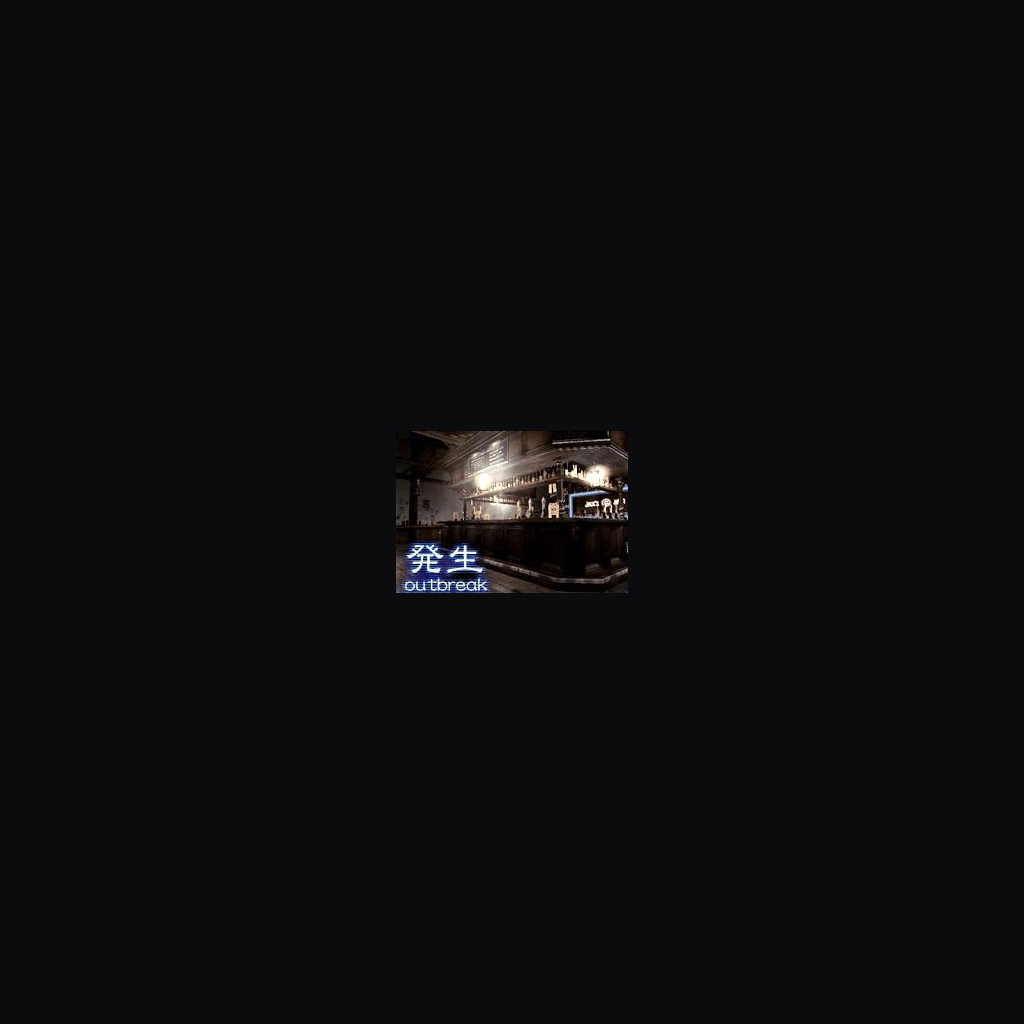
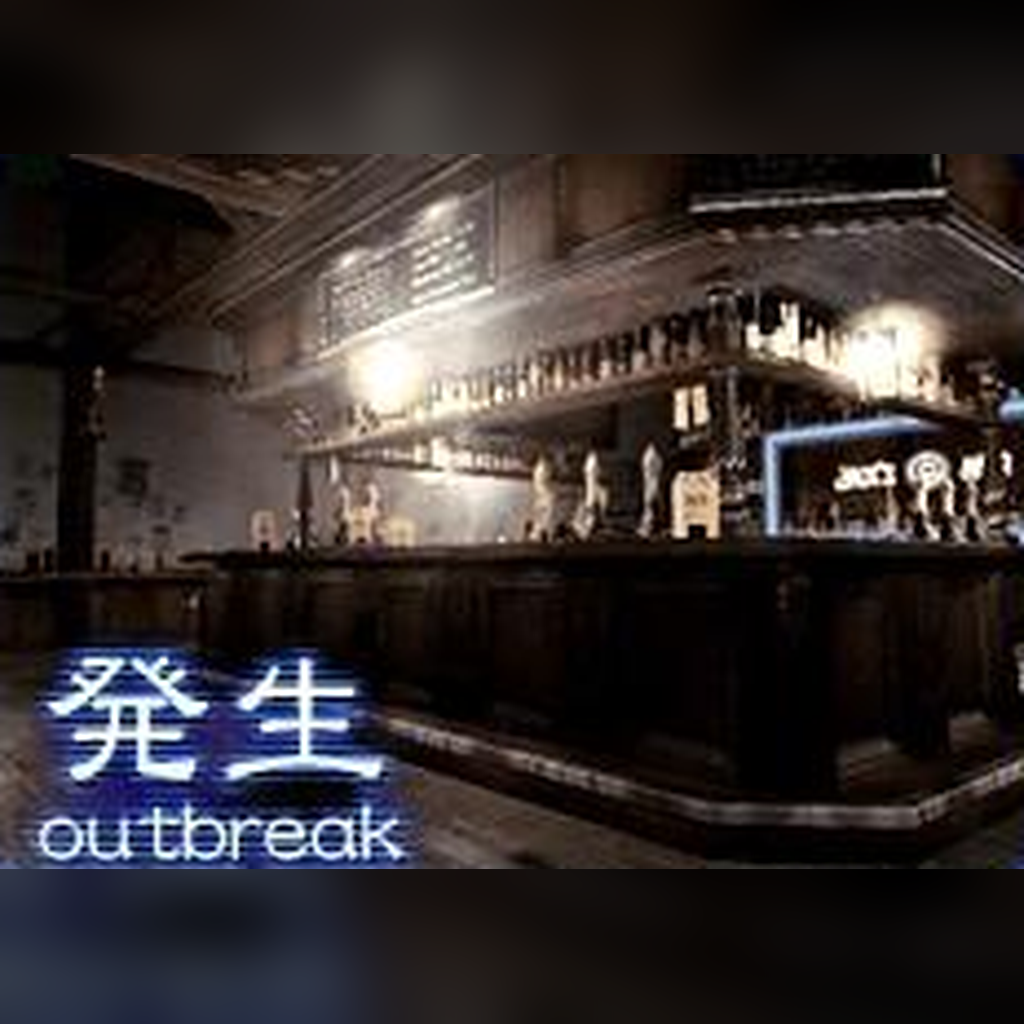
Detect stage from game scenario ID, full-size stage art, keep presence when unfocused
- page-bridge.js (MAIN world) reads the site's trkRead() for scenario and room
  numbers, so detection works even with the tracker hidden
- Companion maps scenario IDs to stages (File #1 28 = The Hive) and logs scen/room
- Content script also reads the in-game tracker overlay, not only the side panel
- Presence no longer clears when Chrome loses focus
- Importer scales screenshots up to fill 1024px with a blurred backdrop;
  presence uses the new <stage>_hd asset keys (assets/discord_upload_hd/)
- Extension 4.2.0

diff --git a/extension/content.js b/extension/content.js
@@ -1,5 +1,12 @@
 // Read-only DOM tracker and lobby inspection. Never touches game memory or network.
 const ROOM_RE = /Area\s*(\d+)\s*·\s*([^·]+)\s*·\s*(\d+\s*\/\s*\d+)\s*players\s*·\s*(Public|Private)/i;
+// Latest numbers from page-bridge.js (scenario id, room id) — the site's own tracker state.
+let gameState = null;
+window.addEventListener('message', e => {
+ if (e.source !== window || e.data?.source !== 'outbreak-discord-bridge') return;
+ const d = e.data;
+ gameState = d.state === 'game' ? {scen: Number.isInteger(d.scen) ? d.scen : null, room: Number.isInteger(d.room) ? d.room : null, diff: Number.isInteger(d.diff) ? d.diff : null, at: Date.now()} : null;
+});
 function snapshot() {
  const username = document.querySelector('#chat-info')?.textContent?.match(/writing as\s+([\w-]+)/i)?.[1] || document.querySelector('#name-hint')?.textContent?.match(/play as\s+([\w-]+)/i)?.[1] || '';
  const rooms = [...document.querySelectorAll('#rooms .room')].map(el=>{
@@ -7,8 +14,12 @@ function snapshot() {
    const m=metadata.match(ROOM_RE);
    return {name:el.querySelector('b')?.textContent.trim().slice(0,80)||'',status:el.querySelector('.tag')?.textContent.trim().slice(0,32)||'',area:m?.[1]||'',players:m?.[3]?.replace(/\s/g,'')||'',visibility:m?.[4]||'',usernames:[...el.querySelectorAll('.who-n')].map(x=>x.textContent.trim())};
  });
- const cards=[...document.querySelectorAll('#trk-panel .trk-card')];
- const tracker=cards.length ? {
+ // The site renders cards into the side panel and/or the in-game overlay; read whichever has them.
+ let cards=[...document.querySelectorAll('#trk-panel .trk-card')];
+ if(!cards.length)cards=[...document.querySelectorAll('#trk-ov .trk-card')];
+ const live=gameState&&Date.now()-gameState.at<10000?gameState:null;
+ const tracker=(cards.length||live) ? {
+  scen:live?.scen??null, roomId:live?.room??null,
   characters:cards.map(c=>{const node=c.querySelector('.trk-name');const name=[...node?.childNodes||[]].filter(n=>n.nodeType===Node.TEXT_NODE).map(n=>n.textContent).join('').trim();return {name:name.slice(0,32),location:c.querySelector('.trk-room')?.textContent.trim().slice(0,100)||'',health:c.querySelector('.trk-hp .trk-num')?.textContent.trim().slice(0,24)||'',virus:c.querySelector('.trk-vir')?.textContent.trim().slice(0,30)||''}}),
   difficulty:document.querySelector('#trk-panel .trk-foot .muted')?.textContent.trim().slice(0,24)||'',
   matchTime:document.querySelector('#trk-panel .trk-clock')?.textContent.trim().slice(0,30)||''

diff --git a/extension/page-bridge.js b/extension/page-bridge.js
@@ -1,0 +1,37 @@
+// Runs in the page's own JS world (manifest "world": "MAIN") so it can see the
+// site's tracker state, and forwards a few numbers to content.js.
+// The site only refreshes window.trkLastState while its tracker panel/overlay is
+// visible, so we call the site's own read-only trkRead() directly when possible.
+(() => {
+  const SOURCE = 'outbreak-discord-bridge';
+  const read = () => {
+    try {
+      // trkRead / TRK_GAMES / game are top-level bindings of the site's script.
+      // eslint-disable-next-line no-undef
+      if (typeof trkRead === 'function' && typeof TRK_GAMES === 'object' && typeof game === 'object' && window.Module?.running) {
+        // eslint-disable-next-line no-undef
+        const cfg = TRK_GAMES[game && game.serial];
+        // eslint-disable-next-line no-undef
+        if (cfg) return trkRead(cfg);
+      }
+    } catch (_) { /* fall back below */ }
+    return window.trkLastState;
+  };
+  setInterval(() => {
+    const s = read();
+    if (!s || s.state !== 'game') {
+      window.postMessage({source: SOURCE, state: s ? String(s.state) : 'none'}, location.origin);
+      return;
+    }
+    const players = Array.isArray(s.players) ? s.players : [];
+    const me = players.find(p => p && p.slot === s.me) || players.find(p => p && p.inGame) || players[0];
+    window.postMessage({
+      source: SOURCE,
+      state: 'game',
+      file: Number(s.file) || null,
+      scen: Number.isFinite(s.scen) ? s.scen : null,
+      diff: Number.isFinite(s.diff) ? s.diff : null,
+      room: me && Number.isFinite(me.room) ? me.room : null,
+    }, location.origin);
+  }, 2000);
+})();

diff --git a/extension/background.js b/extension/background.js
@@ -7,7 +7,12 @@ async function sync() {
   try {
     const {enabled=true, token='', username='', shareRoom=false} = await chrome.storage.local.get(['enabled','token','username','shareRoom']);
     const windows = await chrome.windows.getAll({populate:true});
-    const tab = windows.filter(w=>w.focused).flatMap(w=>w.tabs||[]).find(t=>t.active && TARGET.test(t.url||''));
+    // Keep presence while an Outbreak tab is open, even when Chrome isn't the focused app
+    // (e.g. while you're looking at Discord). Prefer the focused window's active tab, then any
+    // active Outbreak tab, then any Outbreak tab at all.
+    const isGame = t => TARGET.test(t.url||'');
+    const all = windows.flatMap(w=>(w.tabs||[]).map(t=>({t, focused:w.focused})));
+    const tab = (all.find(x=>x.focused && x.t.active && isGame(x.t)) || all.find(x=>x.t.active && isGame(x.t)) || all.find(x=>isGame(x.t)))?.t;
     const playing = Boolean(enabled && tab);
     const game = playing ? tab.url.match(TARGET)[1] : null;
     let room=null, tracker=null;

diff --git a/companion/server.py b/companion/server.py
@@ -68,7 +68,11 @@ class State:
                             location = chars[0].get('location','') if chars else ''
                             character = chars[0].get('name','') if chars else ''
                             # Confirmed mapping: File 2's Elephant Restaurant belongs to Wild Things.
-                            stage_key = identify(game, location)
+                            scen = (tracker or {}).get('scen')
+                            room_id = (tracker or {}).get('roomId')
+                            stage_key = identify(game, location, scen=scen)
+                            if not location and room_id is not None:
+                                location = f'Room {room_id}'
                             stage = STAGES.get(game, {}).get(stage_key)
                             details = f'{stage} · {character}' if stage and character else (f'Playing as {character}' if character else title)
                             state_text = location or 'Playing in Chrome'
@@ -77,7 +81,9 @@ class State:
                                 state_text = f'{room.get("status", "In room")} · {room.get("players", "?")} players'
                             payload = dict(details=details[:128], state=state_text[:128],start=started,
                                 buttons=[{'label':f'Play Outbreak {which}','url':GAME_URLS.get(game,GAME_URLS['file2'])}])
-                            image_key = stage_key if stage_key else ('outbreak_file1' if game=='file1' else 'outbreak_file2')
+                            # Stage art is uploaded as "<stage>_hd" (full-size versions; the
+                            # original keys held small images and Discord caches assets by key).
+                            image_key = f'{stage_key}_hd' if stage_key else ('outbreak_file1' if game=='file1' else 'outbreak_file2')
                             payload['large_image'] = image_key
                             payload['large_text'] = (stage or title)[:128]
                             if tracker and tracker.get('difficulty'):
@@ -85,7 +91,7 @@ class State:
                             # Optional override for users with a custom cover asset.
                             if self.image and not stage: payload['large_image'] = self.image
                             self.rpc.update(**payload)
-                            print(f"Presence active: {title} | {stage or location or 'unknown stage'}", flush=True)
+                            print(f"Presence active: {title} | {stage or 'unknown stage'} | scen={scen} room={room_id} location={location!r}", flush=True)
                         else:
                             self.rpc.clear()
                             print('Presence cleared', flush=True)
@@ -129,7 +135,8 @@ def make_handler(state):
                     if not isinstance(tracker, dict): raise ValueError("invalid tracker")
                     chars = tracker.get("characters", [])
                     if not isinstance(chars, list): raise ValueError("invalid characters")
-                    tracker = {"characters": [{k: str(c.get(k,""))[:100] for k in ("name","location","health","virus")} for c in chars[:4] if isinstance(c,dict)],"difficulty":str(tracker.get("difficulty",""))[:24],"matchTime":str(tracker.get("matchTime",""))[:30]}
+                    num = lambda v: v if type(v) is int and 0 <= v <= 0xFFFF else None
+                    tracker = {"characters": [{k: str(c.get(k,""))[:100] for k in ("name","location","health","virus")} for c in chars[:4] if isinstance(c,dict)],"difficulty":str(tracker.get("difficulty",""))[:24],"matchTime":str(tracker.get("matchTime",""))[:30],"scen":num(tracker.get("scen")),"roomId":num(tracker.get("roomId"))}
                 if room is not None:
                     if not isinstance(room, dict):
                         raise ValueError('invalid room')

diff --git a/import_real_stage_art.py b/import_real_stage_art.py
@@ -1,7 +1,7 @@
 #!/usr/bin/env python3
 """Import actual user-provided game screenshots into Discord asset files. No AI artwork."""
 from pathlib import Path
-from PIL import Image, ImageOps
+from PIL import Image, ImageOps, ImageFilter, ImageEnhance
 STAGES = ['outbreak', 'below_freezing_point', 'the_hive', 'hellfire', 'decisions_decisions', 'wild_things', 'underbelly', 'flashback', 'desperate_times', 'end_of_the_road']
 HERE=Path(__file__).resolve().parent
 SOURCE=HERE/'assets'/'real_stage_images'
@@ -18,10 +18,17 @@ def main():
         try:
             with Image.open(original) as image:
                 image=ImageOps.exif_transpose(image).convert('RGB')
-                # Discord artwork is best as square; pad without cropping gameplay.
-                image.thumbnail((1024,1024),Image.Resampling.LANCZOS)
-                square=Image.new('RGB',(1024,1024),(12,12,15))
-                square.paste(image,((1024-image.width)//2,(1024-image.height)//2))
+                # Discord artwork is square. Scale the screenshot (up or down) to fit the
+                # full 1024px without cropping it, and fill the leftover bands with a
+                # darkened, blurred copy of the same image instead of flat black.
+                scale=1024/max(image.width,image.height)
+                fit=image.resize((round(image.width*scale),round(image.height*scale)),Image.Resampling.LANCZOS)
+                cover_scale=1024/min(image.width,image.height)
+                bg=image.resize((round(image.width*cover_scale),round(image.height*cover_scale)),Image.Resampling.BILINEAR)
+                left,top=(bg.width-1024)//2,(bg.height-1024)//2
+                bg=bg.crop((left,top,left+1024,top+1024)).filter(ImageFilter.GaussianBlur(28))
+                square=ImageEnhance.Brightness(bg).enhance(0.45)
+                square.paste(fit,((1024-fit.width)//2,(1024-fit.height)//2))
                 dest=TARGET/(key+'.png')
                 square.save(dest,optimize=True)
                 print('READY:',dest)

diff --git a/companion/stages.py b/companion/stages.py
@@ -28,9 +28,21 @@ HINTS = {
   'end_of_the_road': ('umbrella research facility', 'chemical plant'),
  }
 }
-def identify(game, location, override=None):
+# The site's tracker exposes the game's internal scenario number (window.trkLastState.scen).
+# This is the most reliable signal; add each id once it has been confirmed in the companion log
+# ("scen=N") while playing a known stage.
+SCENARIO_IDS = {
+    'file1': {
+        28: 'the_hive',  # confirmed 2026-11-15 in-game
+    },
+    'file2': {},
+}
+
+def identify(game, location, override=None, scen=None):
     if override and override in STAGES.get(game, {}):
         return override
+    if scen is not None and scen in SCENARIO_IDS.get(game, {}):
+        return SCENARIO_IDS[game][scen]
     loc = (location or '').casefold()
     matches = [key for key, hints in HINTS.get(game, {}).items() if any(h in loc for h in hints)]
     return matches[0] if len(matches) == 1 else None

diff --git a/README.md b/README.md
@@ -77,11 +77,19 @@ python server.py --app-id YOUR_APPLICATION_ID
 3. Copy the pairing token printed by the server. Keep the terminal running and Discord Desktop open.
 4. In Chrome go to `chrome://extensions`, enable Developer mode, **Load unpacked**, choose `outbreak-discord/extension`.
 5. Click the extension icon, paste the token, and Save. Enable room sharing only if desired.
-6. Open https://outbreakweb.com/file1/ or https://outbreakweb.com/file2/ and keep the tab active. Turn on the website's Tracker panel display so it populates `#trk-panel`.
+6. Open https://outbreakweb.com/file1/ or https://outbreakweb.com/file2/ and keep the tab open (it does not need to be focused). Turn on the website's Tracker panel display so it populates `#trk-panel`.
 
 ## How live stage detection works
 
-The extension reads `#trk-panel .trk-card .trk-room` (current in-game room), character, difficulty and timer, and optionally `#rooms` for lobby status. The companion uses conservative room-name hints in `companion/stages.py`. **Not every room in every scenario is mapped**: the 10 artworks are ready, but unrecognized room names show a default File 1/2 image rather than falsely identifying a stage. `In front of Elephant Restaurant` is recognized as Wild Things. Extend `HINTS` with verified tracker location strings to improve coverage.
+**Primary signal — scenario ID.** `extension/page-bridge.js` runs in the page's own JS world and calls the site's read-only `trkRead()` every 2 s (falling back to `window.trkLastState`). It forwards the game's internal scenario number (`scen`) and your room number to the extension, so detection works even when the tracker panel/overlay is hidden. The companion maps `scen` to a stage via `SCENARIO_IDS` in `companion/stages.py`.
+
+Confirmed IDs so far: File #1 `28` = The Hive. To add another stage, play it and look for `scen=N` in the companion log (`journalctl --user -u outbreak-discord -f`), then add `N: '<stage_key>'` under the right file.
+
+**Fallback — room text.** The extension also reads `.trk-card .trk-room` from `#trk-panel` or the in-game overlay `#trk-ov` and matches distinctive names via `HINTS`. The site omits room labels on higher difficulties and shows `Room N` for unnamed rooms, so this is only a fallback; unknown stages show the default File 1/2 cover rather than guessing.
+
+**Artwork keys.** The presence uses `<stage>_hd` asset keys (full-frame 1024×1024 JPEGs in `assets/discord_upload_hd/`). Upload those files with their filenames as keys. The covers stay `outbreak_file1` / `outbreak_file2`.
+
+Presence stays on while any Outbreak tab is open, even when Chrome isn't the focused window.
 
 The first tracker card is displayed as the character; it may be a teammate, not your controlled character. The match timer shown in the site is not used as Discord's elapsed timer; Discord displays the session start time. Browser updates run about every 30 seconds, with a 75-second stale timeout.
 
